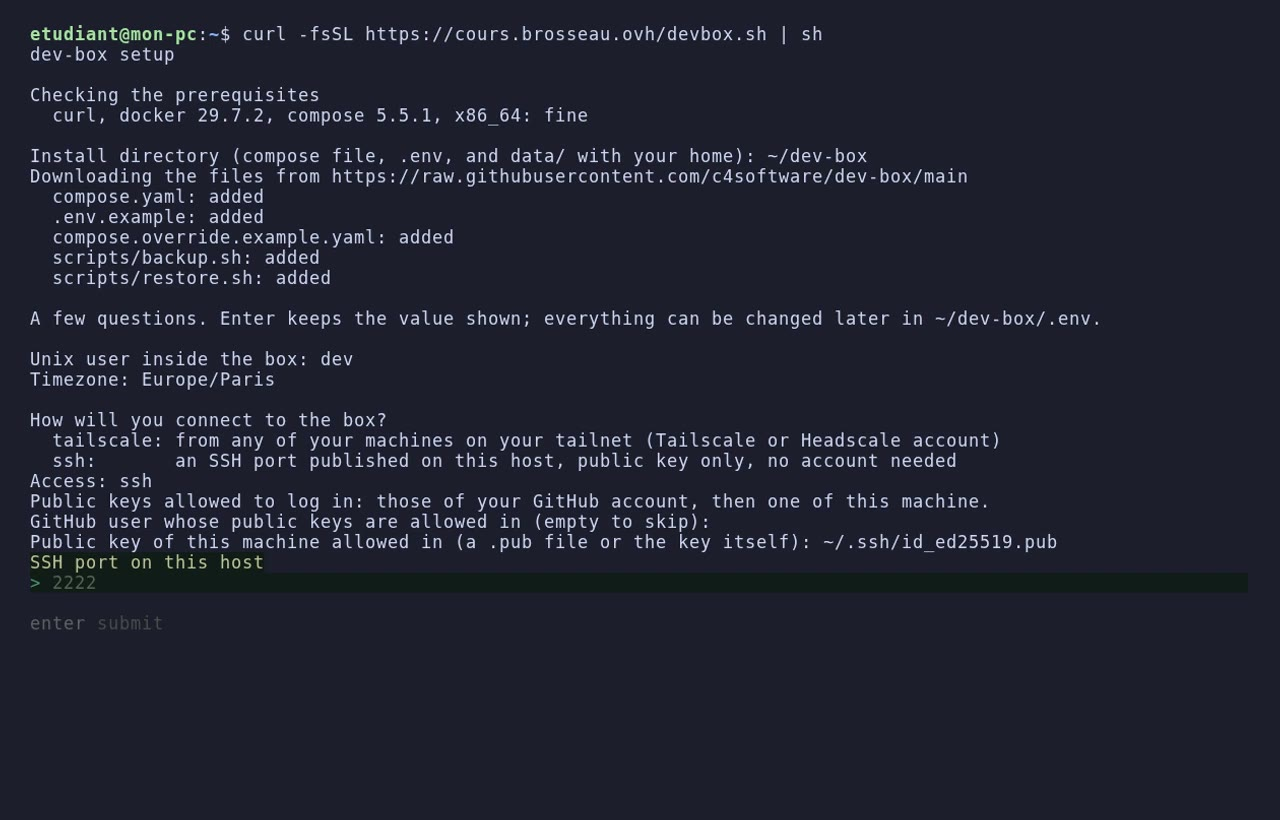
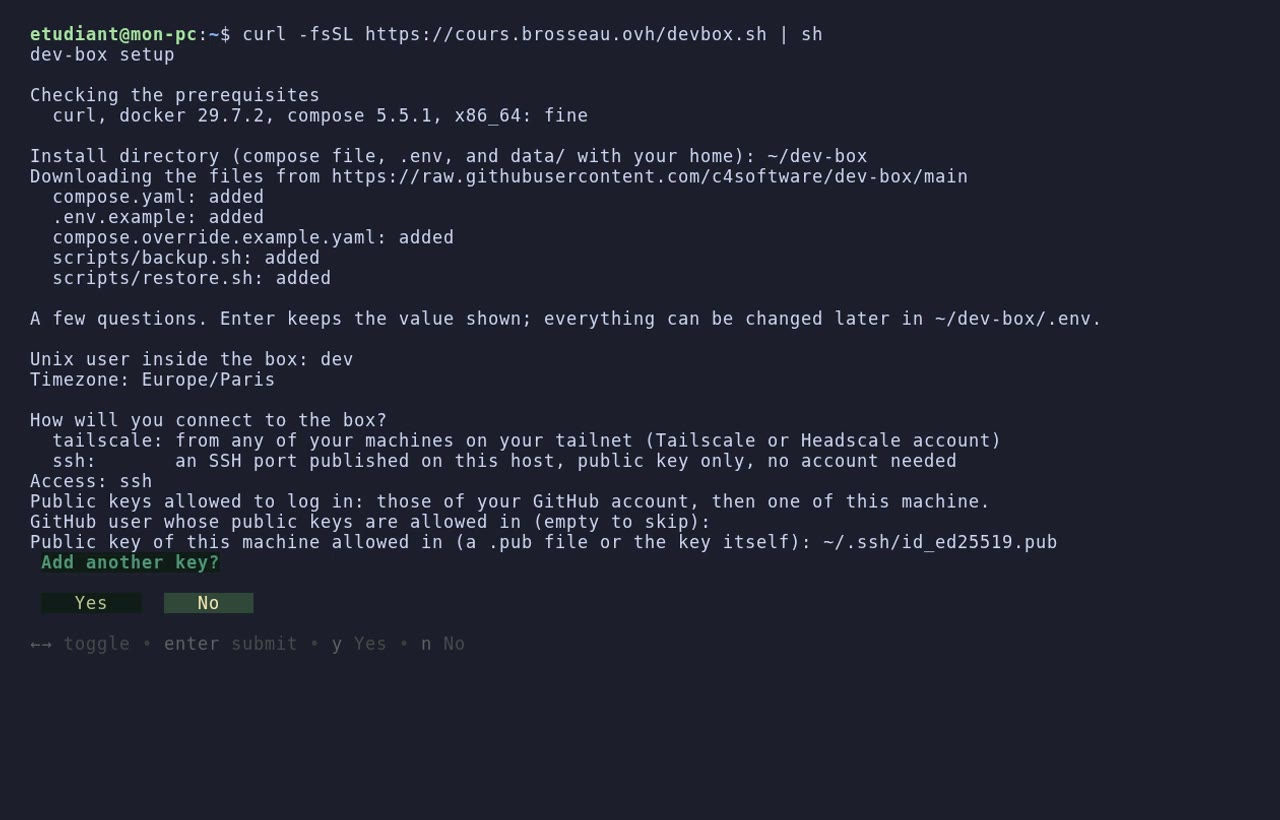
Dev-box : question « Add another key? », installation facultative de gum, aperçu de la vidéo

Changed region(s): [[0.0, 0.6707, 0.2188, 0.7927]]

diff --git a/cheatsheets/dev-box/index.md b/cheatsheets/dev-box/index.md
@@ -95,6 +95,26 @@ Prenez ce réflexe, pour la dev-box comme pour n'importe quel script trouvé sur
 
 Le script vérifie que Docker est bien là, puis vous pose quelques questions. `Entrée` garde la valeur proposée, et tout reste modifiable plus tard dans le fichier `.env`. Si [gum](https://github.com/charmbracelet/gum) est installé sur votre machine, les questions sont plus agréables (une liste pour choisir, un bouton oui / non), mais ce n'est pas nécessaire.
 
+::: details Installer gum (facultatif)
+
+gum est un petit outil qui rend les questions des scripts plus lisibles (c'est lui que vous voyez dans la vidéo plus bas). À installer **avant** de lancer le script :
+
+- Ubuntu (et donc WSL), Debian :
+
+```bash
+sudo mkdir -p /etc/apt/keyrings
+curl -fsSL https://repo.charm.sh/apt/gpg.key | sudo gpg --dearmor -o /etc/apt/keyrings/charm.gpg
+echo "deb [signed-by=/etc/apt/keyrings/charm.gpg] https://repo.charm.sh/apt/ * *" | sudo tee /etc/apt/sources.list.d/charm.list
+sudo apt update && sudo apt install gum
+```
+
+- macOS : `brew install gum`
+- Arch Linux : `sudo pacman -S gum`
+
+Sans gum, le script pose exactement les mêmes questions, en texte simple.
+
+:::
+
 | Question                                 | Ce que je vous conseille de répondre                                                        |
 | ---------------------------------------- | ------------------------------------------------------------------------------------------- |
 | Install directory                        | `Entrée` : la dev-box s'installe dans `~/dev-box`                                            |
@@ -103,6 +123,7 @@ Le script vérifie que Docker est bien là, puis vous pose quelques questions. `
 | Access (tailscale or ssh)                | `ssh` pour commencer (Tailscale est présenté [plus bas](#votre-dev-box-partout-avec-tailscale)) |
 | GitHub user whose public keys are allowed in | Votre pseudo GitHub si vous y avez ajouté votre clé SSH (le script récupère les clés de votre compte), sinon `Entrée` pour passer |
 | Public key of this machine allowed in    | `Entrée` : le script a trouvé votre clé publique dans `~/.ssh`. Les clés GitHub et celle de votre machine sont toutes autorisées |
+| Add another key?                         | `Entrée` (non), sauf si vous voulez autoriser une autre machine : chemin d'un `.pub`, la clé elle-même ou `github:pseudo`, puis la question revient |
 | SSH port on this host                    | `Entrée` : le port `2222`                                                                    |
 | Address the SSH port listens on          | `Entrée` : `127.0.0.1`, la dev-box n'est accessible que depuis votre machine                 |
 | GitHub token                             | Facultatif, voir ci-dessous                                                                 |
